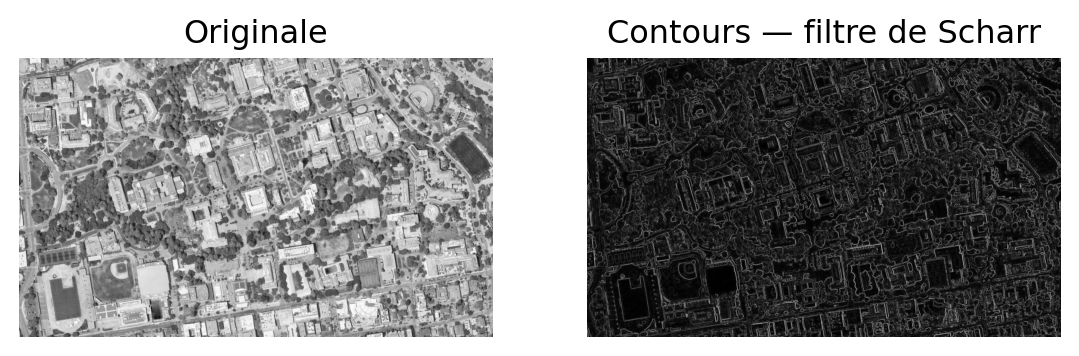
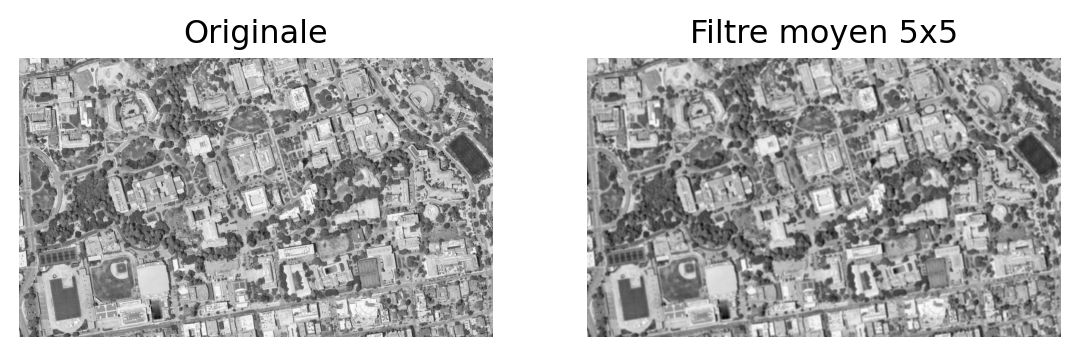
build: regenerate decks 04/05 for slide splits (v1.338)

diff --git a/docs/slides/04-spatiales.html b/docs/slides/04-spatiales.html
@@ -229,7 +229,7 @@ Foucher, Apparicio, Bouroubi, Germain, Clabaut
 </section>
 <section id="transformée-de-fourier-1d" class="slide level2 smaller">
 <h2>Transformée de Fourier — 1D</h2>
-<div id="15ca886a" class="cell" data-execution_count="2">
+<div id="7eff0b74" class="cell" data-execution_count="1">
 <div class="code-copy-outer-scaffold"><div class="sourceCode cell-code" id="cb1"><pre class="sourceCode numberSource python number-lines code-with-copy"><code class="sourceCode python"><span id="cb1-1"><a href=""></a><span class="im">import</span> numpy <span class="im">as</span> np, matplotlib.pyplot <span class="im">as</span> plt</span>
 <span id="cb1-2"><a href=""></a>N, Fs <span class="op">=</span> <span class="dv">16</span>, <span class="fl">2.0</span><span class="op">;</span> Ts <span class="op">=</span> <span class="dv">1</span><span class="op">/</span>Fs</span>
 <span id="cb1-3"><a href=""></a>t <span class="op">=</span> np.arange(<span class="dv">0</span>, N, Ts)</span>
@@ -260,7 +260,7 @@ Foucher, Apparicio, Bouroubi, Germain, Clabaut
 <section id="laliasing" class="slide level2 smaller">
 <h2>L’aliasing</h2>
 <p>Sous-échantillonner sans filtrer → repliement de spectre :</p>
-<div id="fb1bbc5a" class="cell" data-execution_count="3">
+<div id="be30c19b" class="cell" data-execution_count="2">
 <div class="code-copy-outer-scaffold"><div class="sourceCode cell-code" id="cb2"><pre class="sourceCode numberSource python number-lines code-with-copy"><code class="sourceCode python"><span id="cb2-1"><a href=""></a><span class="im">import</span> rioxarray <span class="im">as</span> rxr</span>
 <span id="cb2-2"><a href=""></a><span class="im">from</span> scipy.ndimage <span class="im">import</span> gaussian_filter</span>
 <span id="cb2-3"><a href=""></a>img <span class="op">=</span> rxr.open_rasterio(<span class="st">'../berkeley.jpg'</span>).to_numpy()       <span class="co"># (3, H, W)</span></span>
@@ -288,17 +288,17 @@ Foucher, Apparicio, Bouroubi, Germain, Clabaut
 <li class="fragment"><strong>Stationnaire</strong> vs <strong>adaptatif</strong></li>
 </ul>
 </section>
-<section id="filtre-moyen-contours-scharr" class="slide level2 smaller">
-<h2>Filtre moyen &amp; contours (Scharr)</h2>
-<div id="4148009e" class="cell" data-execution_count="4">
-<div class="code-copy-outer-scaffold"><div class="sourceCode cell-code" id="cb3"><pre class="sourceCode numberSource python number-lines code-with-copy"><code class="sourceCode python"><span id="cb3-1"><a href=""></a><span class="im">from</span> scipy <span class="im">import</span> signal</span>
-<span id="cb3-2"><a href=""></a>scharr <span class="op">=</span> np.array([[<span class="op">-</span><span class="dv">3</span><span class="op">-</span><span class="ot">3j</span>, <span class="dv">0</span><span class="op">-</span><span class="ot">10j</span>, <span class="dv">3</span><span class="op">-</span><span class="ot">3j</span>], [<span class="op">-</span><span class="dv">10</span><span class="op">+</span><span class="ot">0j</span>, <span class="dv">0</span><span class="op">+</span><span class="ot">0j</span>, <span class="dv">10</span><span class="op">+</span><span class="ot">0j</span>], [<span class="op">-</span><span class="dv">3</span><span class="op">+</span><span class="ot">3j</span>, <span class="dv">0</span><span class="op">+</span><span class="ot">10j</span>, <span class="dv">3</span><span class="op">+</span><span class="ot">3j</span>]])</span>
-<span id="cb3-3"><a href=""></a>gris <span class="op">=</span> img[<span class="dv">0</span>]                                    <span class="co"># une bande</span></span>
-<span id="cb3-4"><a href=""></a>grad <span class="op">=</span> np.<span class="bu">abs</span>(signal.convolve2d(gris, scharr, boundary<span class="op">=</span><span class="st">'symm'</span>, mode<span class="op">=</span><span class="st">'same'</span>))</span>
-<span id="cb3-5"><a href=""></a>fig, ax <span class="op">=</span> plt.subplots(<span class="dv">1</span>, <span class="dv">2</span>, figsize<span class="op">=</span>(<span class="dv">7</span>, <span class="dv">3</span>))</span>
-<span id="cb3-6"><a href=""></a>ax[<span class="dv">0</span>].imshow(gris, cmap<span class="op">=</span><span class="st">'gray'</span>)<span class="op">;</span> ax[<span class="dv">0</span>].set_title(<span class="st">"Originale"</span>)<span class="op">;</span> ax[<span class="dv">0</span>].axis(<span class="st">'off'</span>)</span>
-<span id="cb3-7"><a href=""></a>ax[<span class="dv">1</span>].imshow(grad, cmap<span class="op">=</span><span class="st">'gray'</span>)<span class="op">;</span> ax[<span class="dv">1</span>].set_title(<span class="st">"Contours — filtre de Scharr"</span>)<span class="op">;</span> ax[<span class="dv">1</span>].axis(<span class="st">'off'</span>)</span>
-<span id="cb3-8"><a href=""></a>plt.show()</span></code></pre></div><button title="Copy to Clipboard" class="code-copy-button"><i class="bi"></i></button></div>
+<section id="filtre-moyen-lissage" class="slide level2 smaller">
+<h2>Filtre moyen (lissage)</h2>
+<p>Un <strong>filtre moyen</strong> remplace chaque pixel par la moyenne de son voisinage → réduit le bruit, adoucit les détails.</p>
+<div id="caa58448" class="cell" data-execution_count="3">
+<div class="code-copy-outer-scaffold"><div class="sourceCode cell-code" id="cb3"><pre class="sourceCode numberSource python number-lines code-with-copy"><code class="sourceCode python"><span id="cb3-1"><a href=""></a><span class="im">from</span> scipy.ndimage <span class="im">import</span> uniform_filter</span>
+<span id="cb3-2"><a href=""></a>gris <span class="op">=</span> img[<span class="dv">0</span>]                                    <span class="co"># une bande</span></span>
+<span id="cb3-3"><a href=""></a>lisse <span class="op">=</span> uniform_filter(gris, size<span class="op">=</span><span class="dv">5</span>)             <span class="co"># moyenne sur une fenêtre 5x5</span></span>
+<span id="cb3-4"><a href=""></a>fig, ax <span class="op">=</span> plt.subplots(<span class="dv">1</span>, <span class="dv">2</span>, figsize<span class="op">=</span>(<span class="dv">7</span>, <span class="dv">3</span>))</span>
+<span id="cb3-5"><a href=""></a>ax[<span class="dv">0</span>].imshow(gris, cmap<span class="op">=</span><span class="st">'gray'</span>)<span class="op">;</span> ax[<span class="dv">0</span>].set_title(<span class="st">"Originale"</span>)<span class="op">;</span> ax[<span class="dv">0</span>].axis(<span class="st">'off'</span>)</span>
+<span id="cb3-6"><a href=""></a>ax[<span class="dv">1</span>].imshow(lisse, cmap<span class="op">=</span><span class="st">'gray'</span>)<span class="op">;</span> ax[<span class="dv">1</span>].set_title(<span class="st">"Filtre moyen 5x5"</span>)<span class="op">;</span> ax[<span class="dv">1</span>].axis(<span class="st">'off'</span>)</span>
+<span id="cb3-7"><a href=""></a>plt.show()</span></code></pre></div><button title="Copy to Clipboard" class="code-copy-button"><i class="bi"></i></button></div>
 <div class="cell-output cell-output-display">
 <div class="quarto-figure quarto-figure-center">
 <figure>
@@ -308,24 +308,45 @@ Foucher, Apparicio, Bouroubi, Germain, Clabaut
 </div>
 </div>
 </section>
-<section id="du-filtre-à-la-couche-convolutionnelle" class="slide level2 smaller">
-<h2>Du filtre à la couche convolutionnelle</h2>
-<p>Une <strong>couche convolutionnelle</strong> applique des filtres comme celui de Scharr — mais dans un réseau de neurones, ces filtres sont <strong>appris</strong> à partir des données.</p>
-<div id="b94bd0a8" class="cell" data-execution_count="5">
-<div class="code-copy-outer-scaffold"><div class="sourceCode cell-code" id="cb4"><pre class="sourceCode numberSource python number-lines code-with-copy"><code class="sourceCode python"><span id="cb4-1"><a href=""></a><span class="im">import</span> torch, torch.nn <span class="im">as</span> nn</span>
-<span id="cb4-2"><a href=""></a>conv <span class="op">=</span> nn.Conv2d(<span class="dv">1</span>, <span class="dv">1</span>, kernel_size<span class="op">=</span><span class="dv">3</span>, padding<span class="op">=</span><span class="dv">1</span>, bias<span class="op">=</span><span class="va">False</span>)   <span class="co"># une couche conv 3x3</span></span>
-<span id="cb4-3"><a href=""></a>scharr_gx <span class="op">=</span> torch.tensor([[<span class="op">-</span><span class="fl">3.</span>, <span class="dv">0</span>, <span class="dv">3</span>], [<span class="op">-</span><span class="dv">10</span>, <span class="dv">0</span>, <span class="dv">10</span>], [<span class="op">-</span><span class="dv">3</span>, <span class="dv">0</span>, <span class="dv">3</span>]]).reshape(<span class="dv">1</span>, <span class="dv">1</span>, <span class="dv">3</span>, <span class="dv">3</span>)</span>
-<span id="cb4-4"><a href=""></a>conv.weight <span class="op">=</span> nn.Parameter(scharr_gx)                          <span class="co"># noyau imposé (Scharr Gx)</span></span>
-<span id="cb4-5"><a href=""></a>x <span class="op">=</span> torch.tensor(gris, dtype<span class="op">=</span>torch.float32)[<span class="va">None</span>, <span class="va">None</span>]        <span class="co"># (1, 1, H, W)</span></span>
-<span id="cb4-6"><a href=""></a>sortie <span class="op">=</span> conv(x)[<span class="dv">0</span>, <span class="dv">0</span>].detach().numpy()</span>
-<span id="cb4-7"><a href=""></a>fig, ax <span class="op">=</span> plt.subplots(<span class="dv">1</span>, <span class="dv">2</span>, figsize<span class="op">=</span>(<span class="dv">7</span>, <span class="dv">3</span>))</span>
-<span id="cb4-8"><a href=""></a>ax[<span class="dv">0</span>].imshow(gris, cmap<span class="op">=</span><span class="st">'gray'</span>)<span class="op">;</span> ax[<span class="dv">0</span>].set_title(<span class="st">"Entrée"</span>)<span class="op">;</span> ax[<span class="dv">0</span>].axis(<span class="st">'off'</span>)</span>
-<span id="cb4-9"><a href=""></a>ax[<span class="dv">1</span>].imshow(np.<span class="bu">abs</span>(sortie), cmap<span class="op">=</span><span class="st">'gray'</span>)<span class="op">;</span> ax[<span class="dv">1</span>].set_title(<span class="st">"Sortie — couche conv (Scharr)"</span>)<span class="op">;</span> ax[<span class="dv">1</span>].axis(<span class="st">'off'</span>)</span>
-<span id="cb4-10"><a href=""></a>plt.show()</span></code></pre></div><button title="Copy to Clipboard" class="code-copy-button"><i class="bi"></i></button></div>
+<section id="contours-filtre-de-scharr" class="slide level2 smaller">
+<h2>Contours — filtre de Scharr</h2>
+<p>Un <strong>filtre de gradient</strong> (Scharr) met en valeur les <strong>contours</strong> — les fortes variations locales :</p>
+<div id="c0444c92" class="cell" data-execution_count="4">
+<div class="code-copy-outer-scaffold"><div class="sourceCode cell-code" id="cb4"><pre class="sourceCode numberSource python number-lines code-with-copy"><code class="sourceCode python"><span id="cb4-1"><a href=""></a><span class="im">from</span> scipy <span class="im">import</span> signal</span>
+<span id="cb4-2"><a href=""></a>scharr <span class="op">=</span> np.array([[<span class="op">-</span><span class="dv">3</span><span class="op">-</span><span class="ot">3j</span>, <span class="dv">0</span><span class="op">-</span><span class="ot">10j</span>, <span class="dv">3</span><span class="op">-</span><span class="ot">3j</span>], [<span class="op">-</span><span class="dv">10</span><span class="op">+</span><span class="ot">0j</span>, <span class="dv">0</span><span class="op">+</span><span class="ot">0j</span>, <span class="dv">10</span><span class="op">+</span><span class="ot">0j</span>], [<span class="op">-</span><span class="dv">3</span><span class="op">+</span><span class="ot">3j</span>, <span class="dv">0</span><span class="op">+</span><span class="ot">10j</span>, <span class="dv">3</span><span class="op">+</span><span class="ot">3j</span>]])</span>
+<span id="cb4-3"><a href=""></a>gris <span class="op">=</span> img[<span class="dv">0</span>]                                    <span class="co"># une bande</span></span>
+<span id="cb4-4"><a href=""></a>grad <span class="op">=</span> np.<span class="bu">abs</span>(signal.convolve2d(gris, scharr, boundary<span class="op">=</span><span class="st">'symm'</span>, mode<span class="op">=</span><span class="st">'same'</span>))</span>
+<span id="cb4-5"><a href=""></a>fig, ax <span class="op">=</span> plt.subplots(<span class="dv">1</span>, <span class="dv">2</span>, figsize<span class="op">=</span>(<span class="dv">7</span>, <span class="dv">3</span>))</span>
+<span id="cb4-6"><a href=""></a>ax[<span class="dv">0</span>].imshow(gris, cmap<span class="op">=</span><span class="st">'gray'</span>)<span class="op">;</span> ax[<span class="dv">0</span>].set_title(<span class="st">"Originale"</span>)<span class="op">;</span> ax[<span class="dv">0</span>].axis(<span class="st">'off'</span>)</span>
+<span id="cb4-7"><a href=""></a>ax[<span class="dv">1</span>].imshow(grad, cmap<span class="op">=</span><span class="st">'gray'</span>)<span class="op">;</span> ax[<span class="dv">1</span>].set_title(<span class="st">"Contours (Scharr)"</span>)<span class="op">;</span> ax[<span class="dv">1</span>].axis(<span class="st">'off'</span>)</span>
+<span id="cb4-8"><a href=""></a>plt.show()</span></code></pre></div><button title="Copy to Clipboard" class="code-copy-button"><i class="bi"></i></button></div>
 <div class="cell-output cell-output-display">
 <div class="quarto-figure quarto-figure-center">
 <figure>
-<p><img data-src="04-spatiales_files/figure-revealjs/cell-5-output-1.png" class="quarto-figure quarto-figure-center" width="543" height="178"></p>
+<p><img data-src="04-spatiales_files/figure-revealjs/cell-5-output-1.png" class="quarto-figure quarto-figure-center" width="540" height="178"></p>
+</figure>
+</div>
+</div>
+</div>
+</section>
+<section id="du-filtre-à-la-couche-convolutionnelle" class="slide level2 smaller">
+<h2>Du filtre à la couche convolutionnelle</h2>
+<p>Une <strong>couche convolutionnelle</strong> applique des filtres comme celui de Scharr — mais dans un réseau de neurones, ces filtres sont <strong>appris</strong> à partir des données.</p>
+<div id="396b5b8b" class="cell" data-execution_count="5">
+<div class="code-copy-outer-scaffold"><div class="sourceCode cell-code" id="cb5"><pre class="sourceCode numberSource python number-lines code-with-copy"><code class="sourceCode python"><span id="cb5-1"><a href=""></a><span class="im">import</span> torch, torch.nn <span class="im">as</span> nn</span>
+<span id="cb5-2"><a href=""></a>conv <span class="op">=</span> nn.Conv2d(<span class="dv">1</span>, <span class="dv">1</span>, kernel_size<span class="op">=</span><span class="dv">3</span>, padding<span class="op">=</span><span class="dv">1</span>, bias<span class="op">=</span><span class="va">False</span>)   <span class="co"># une couche conv 3x3</span></span>
+<span id="cb5-3"><a href=""></a>scharr_gx <span class="op">=</span> torch.tensor([[<span class="op">-</span><span class="fl">3.</span>, <span class="dv">0</span>, <span class="dv">3</span>], [<span class="op">-</span><span class="dv">10</span>, <span class="dv">0</span>, <span class="dv">10</span>], [<span class="op">-</span><span class="dv">3</span>, <span class="dv">0</span>, <span class="dv">3</span>]]).reshape(<span class="dv">1</span>, <span class="dv">1</span>, <span class="dv">3</span>, <span class="dv">3</span>)</span>
+<span id="cb5-4"><a href=""></a>conv.weight <span class="op">=</span> nn.Parameter(scharr_gx)                          <span class="co"># noyau imposé (Scharr Gx)</span></span>
+<span id="cb5-5"><a href=""></a>x <span class="op">=</span> torch.tensor(gris, dtype<span class="op">=</span>torch.float32)[<span class="va">None</span>, <span class="va">None</span>]        <span class="co"># (1, 1, H, W)</span></span>
+<span id="cb5-6"><a href=""></a>sortie <span class="op">=</span> conv(x)[<span class="dv">0</span>, <span class="dv">0</span>].detach().numpy()</span>
+<span id="cb5-7"><a href=""></a>fig, ax <span class="op">=</span> plt.subplots(<span class="dv">1</span>, <span class="dv">2</span>, figsize<span class="op">=</span>(<span class="dv">7</span>, <span class="dv">3</span>))</span>
+<span id="cb5-8"><a href=""></a>ax[<span class="dv">0</span>].imshow(gris, cmap<span class="op">=</span><span class="st">'gray'</span>)<span class="op">;</span> ax[<span class="dv">0</span>].set_title(<span class="st">"Entrée"</span>)<span class="op">;</span> ax[<span class="dv">0</span>].axis(<span class="st">'off'</span>)</span>
+<span id="cb5-9"><a href=""></a>ax[<span class="dv">1</span>].imshow(np.<span class="bu">abs</span>(sortie), cmap<span class="op">=</span><span class="st">'gray'</span>)<span class="op">;</span> ax[<span class="dv">1</span>].set_title(<span class="st">"Sortie — couche conv (Scharr)"</span>)<span class="op">;</span> ax[<span class="dv">1</span>].axis(<span class="st">'off'</span>)</span>
+<span id="cb5-10"><a href=""></a>plt.show()</span></code></pre></div><button title="Copy to Clipboard" class="code-copy-button"><i class="bi"></i></button></div>
+<div class="cell-output cell-output-display">
+<div class="quarto-figure quarto-figure-center">
+<figure>
+<p><img data-src="04-spatiales_files/figure-revealjs/cell-6-output-1.png" class="quarto-figure quarto-figure-center" width="543" height="178"></p>
 </figure>
 </div>
 </div>
@@ -335,18 +356,18 @@ Foucher, Apparicio, Bouroubi, Germain, Clabaut
 <section id="filtrage-adaptatif-le-speckle-sar" class="slide level2 smaller">
 <h2>Filtrage adaptatif — le <em>speckle</em> SAR</h2>
 <p>Les images radar sont dégradées par un bruit multiplicatif (<em>speckle</em>). Le <strong>filtre de Lee</strong> lisse en <strong>préservant les détails</strong> (pondération selon la variance locale).</p>
-<div id="9ace5d48" class="cell" data-execution_count="6">
-<div class="code-copy-outer-scaffold"><div class="sourceCode cell-code" id="cb5"><pre class="sourceCode numberSource python number-lines code-with-copy"><code class="sourceCode python"><span id="cb5-1"><a href=""></a>sar <span class="op">=</span> rxr.open_rasterio(<span class="st">'../SAR.tif'</span>).sel(band<span class="op">=</span><span class="dv">1</span>)</span>
-<span id="cb5-2"><a href=""></a>sar <span class="op">=</span> sar.where(sar <span class="op">&gt;</span> <span class="dv">0</span>)                          <span class="co"># masque no_data</span></span>
-<span id="cb5-3"><a href=""></a>moy <span class="op">=</span> sar.rolling(x<span class="op">=</span><span class="dv">5</span>, y<span class="op">=</span><span class="dv">5</span>, min_periods<span class="op">=</span><span class="dv">3</span>, center<span class="op">=</span><span class="va">True</span>).mean()</span>
-<span id="cb5-4"><a href=""></a>fig, ax <span class="op">=</span> plt.subplots(<span class="dv">1</span>, <span class="dv">2</span>, figsize<span class="op">=</span>(<span class="dv">7</span>, <span class="dv">3</span>))</span>
-<span id="cb5-5"><a href=""></a>np.log10(sar).plot.imshow(ax<span class="op">=</span>ax[<span class="dv">0</span>], add_colorbar<span class="op">=</span><span class="va">False</span>)<span class="op">;</span> ax[<span class="dv">0</span>].set_title(<span class="st">"SAR brut (speckle)"</span>)<span class="op">;</span> ax[<span class="dv">0</span>].axis(<span class="st">'off'</span>)</span>
-<span id="cb5-6"><a href=""></a>np.log10(moy).plot.imshow(ax<span class="op">=</span>ax[<span class="dv">1</span>], add_colorbar<span class="op">=</span><span class="va">False</span>)<span class="op">;</span> ax[<span class="dv">1</span>].set_title(<span class="st">"Filtre moyen 5x5"</span>)<span class="op">;</span> ax[<span class="dv">1</span>].axis(<span class="st">'off'</span>)</span>
-<span id="cb5-7"><a href=""></a>plt.show()</span></code></pre></div><button title="Copy to Clipboard" class="code-copy-button"><i class="bi"></i></button></div>
+<div id="0eb786a8" class="cell" data-execution_count="6">
+<div class="code-copy-outer-scaffold"><div class="sourceCode cell-code" id="cb6"><pre class="sourceCode numberSource python number-lines code-with-copy"><code class="sourceCode python"><span id="cb6-1"><a href=""></a>sar <span class="op">=</span> rxr.open_rasterio(<span class="st">'../SAR.tif'</span>).sel(band<span class="op">=</span><span class="dv">1</span>)</span>
+<span id="cb6-2"><a href=""></a>sar <span class="op">=</span> sar.where(sar <span class="op">&gt;</span> <span class="dv">0</span>)                          <span class="co"># masque no_data</span></span>
+<span id="cb6-3"><a href=""></a>moy <span class="op">=</span> sar.rolling(x<span class="op">=</span><span class="dv">5</span>, y<span class="op">=</span><span class="dv">5</span>, min_periods<span class="op">=</span><span class="dv">3</span>, center<span class="op">=</span><span class="va">True</span>).mean()</span>
+<span id="cb6-4"><a href=""></a>fig, ax <span class="op">=</span> plt.subplots(<span class="dv">1</span>, <span class="dv">2</span>, figsize<span class="op">=</span>(<span class="dv">7</span>, <span class="dv">3</span>))</span>
+<span id="cb6-5"><a href=""></a>np.log10(sar).plot.imshow(ax<span class="op">=</span>ax[<span class="dv">0</span>], add_colorbar<span class="op">=</span><span class="va">False</span>)<span class="op">;</span> ax[<span class="dv">0</span>].set_title(<span class="st">"SAR brut (speckle)"</span>)<span class="op">;</span> ax[<span class="dv">0</span>].axis(<span class="st">'off'</span>)</span>
+<span id="cb6-6"><a href=""></a>np.log10(moy).plot.imshow(ax<span class="op">=</span>ax[<span class="dv">1</span>], add_colorbar<span class="op">=</span><span class="va">False</span>)<span class="op">;</span> ax[<span class="dv">1</span>].set_title(<span class="st">"Filtre moyen 5x5"</span>)<span class="op">;</span> ax[<span class="dv">1</span>].axis(<span class="st">'off'</span>)</span>
+<span id="cb6-7"><a href=""></a>plt.show()</span></code></pre></div><button title="Copy to Clipboard" class="code-copy-button"><i class="bi"></i></button></div>
 <div class="cell-output cell-output-display">
 <div class="quarto-figure quarto-figure-center">
 <figure>
-<p><img data-src="04-spatiales_files/figure-revealjs/cell-6-output-1.png" class="quarto-figure quarto-figure-center" width="540" height="261"></p>
+<p><img data-src="04-spatiales_files/figure-revealjs/cell-7-output-1.png" class="quarto-figure quarto-figure-center" width="540" height="261"></p>
 </figure>
 </div>
 </div>
@@ -355,18 +376,18 @@ Foucher, Apparicio, Bouroubi, Germain, Clabaut
 <section id="segmentation-en-super-pixels" class="slide level2 smaller">
 <h2>Segmentation en super-pixels</h2>
 <p><strong>SLIC</strong> regroupe les pixels en régions homogènes et compactes (couleur + distance) :</p>
-<div id="edb7083c" class="cell" data-execution_count="7">
-<div class="code-copy-outer-scaffold"><div class="sourceCode cell-code" id="cb6"><pre class="sourceCode numberSource python number-lines code-with-copy"><code class="sourceCode python"><span id="cb6-1"><a href=""></a><span class="im">from</span> skimage.segmentation <span class="im">import</span> slic, mark_boundaries</span>
-<span id="cb6-2"><a href=""></a>rgb <span class="op">=</span> img.transpose(<span class="dv">1</span>, <span class="dv">2</span>, <span class="dv">0</span>).astype(<span class="st">'uint8'</span>)      <span class="co"># berkeley (réutilisée)</span></span>
-<span id="cb6-3"><a href=""></a>seg <span class="op">=</span> slic(rgb, n_segments<span class="op">=</span><span class="dv">250</span>, compactness<span class="op">=</span><span class="dv">10</span>, sigma<span class="op">=</span><span class="dv">1</span>, start_label<span class="op">=</span><span class="dv">1</span>)</span>
-<span id="cb6-4"><a href=""></a>fig, ax <span class="op">=</span> plt.subplots(figsize<span class="op">=</span>(<span class="dv">5</span>, <span class="fl">3.6</span>))</span>
-<span id="cb6-5"><a href=""></a>ax.imshow(mark_boundaries(rgb, seg))</span>
-<span id="cb6-6"><a href=""></a>ax.set_title(<span class="ss">f"SLIC — </span><span class="sc">{</span><span class="bu">len</span>(np.unique(seg))<span class="sc">}</span><span class="ss"> super-pixels"</span>)<span class="op">;</span> ax.axis(<span class="st">'off'</span>)</span>
-<span id="cb6-7"><a href=""></a>plt.show()</span></code></pre></div><button title="Copy to Clipboard" class="code-copy-button"><i class="bi"></i></button></div>
+<div id="c879d117" class="cell" data-execution_count="7">
+<div class="code-copy-outer-scaffold"><div class="sourceCode cell-code" id="cb7"><pre class="sourceCode numberSource python number-lines code-with-copy"><code class="sourceCode python"><span id="cb7-1"><a href=""></a><span class="im">from</span> skimage.segmentation <span class="im">import</span> slic, mark_boundaries</span>
+<span id="cb7-2"><a href=""></a>rgb <span class="op">=</span> img.transpose(<span class="dv">1</span>, <span class="dv">2</span>, <span class="dv">0</span>).astype(<span class="st">'uint8'</span>)      <span class="co"># berkeley (réutilisée)</span></span>
+<span id="cb7-3"><a href=""></a>seg <span class="op">=</span> slic(rgb, n_segments<span class="op">=</span><span class="dv">250</span>, compactness<span class="op">=</span><span class="dv">10</span>, sigma<span class="op">=</span><span class="dv">1</span>, start_label<span class="op">=</span><span class="dv">1</span>)</span>
+<span id="cb7-4"><a href=""></a>fig, ax <span class="op">=</span> plt.subplots(figsize<span class="op">=</span>(<span class="dv">5</span>, <span class="fl">3.6</span>))</span>
+<span id="cb7-5"><a href=""></a>ax.imshow(mark_boundaries(rgb, seg))</span>
+<span id="cb7-6"><a href=""></a>ax.set_title(<span class="ss">f"SLIC — </span><span class="sc">{</span><span class="bu">len</span>(np.unique(seg))<span class="sc">}</span><span class="ss"> super-pixels"</span>)<span class="op">;</span> ax.axis(<span class="st">'off'</span>)</span>
+<span id="cb7-7"><a href=""></a>plt.show()</span></code></pre></div><button title="Copy to Clipboard" class="code-copy-button"><i class="bi"></i></button></div>
 <div class="cell-output cell-output-display">
 <div class="quarto-figure quarto-figure-center">
 <figure>
-<p><img data-src="04-spatiales_files/figure-revealjs/cell-7-output-1.png" class="quarto-figure quarto-figure-center" width="391" height="258"></p>
+<p><img data-src="04-spatiales_files/figure-revealjs/cell-8-output-1.png" class="quarto-figure quarto-figure-center" width="391" height="258"></p>
 </figure>
 </div>
 </div>

diff --git a/docs/slides/05-classifications.html b/docs/slides/05-classifications.html
@@ -266,13 +266,21 @@ Foucher, Apparicio, Bouroubi, Germain, Clabaut
 <li class="fragment"><strong>Tester</strong> sur des données indépendantes</li>
 </ol>
 </section>
-<section id="séparabilité-performance" class="slide level2 smaller">
-<h2>Séparabilité &amp; performance</h2>
+<section id="séparabilité-des-classes" class="slide level2 smaller">
+<h2>Séparabilité des classes</h2>
 <ul>
-<li class="fragment">Ensembles réels souvent <strong>déséquilibrés</strong></li>
-<li class="fragment"><strong>Séparabilité</strong> (distance JM) sous hypothèse gaussienne</li>
-<li class="fragment"><strong>Matrice de confusion</strong> → <strong>rappel</strong> (omission, lignes), <strong>précision</strong> (fausses alarmes, colonnes)</li>
-<li class="fragment"><strong>f1-score</strong> = moyenne harmonique rappel/précision</li>
+<li class="fragment">Ensembles réels souvent <strong>déséquilibrés</strong> (fréquences de classes très inégales)</li>
+<li class="fragment"><strong>Séparabilité</strong> mesurée par la distance <strong>JM</strong> sous hypothèse gaussienne</li>
+<li class="fragment">Guide le choix des bandes et indices les plus <strong>discriminants</strong></li>
+</ul>
+</section>
+<section id="mesures-de-performance" class="slide level2 smaller">
+<h2>Mesures de performance</h2>
+<ul>
+<li class="fragment"><strong>Matrice de confusion</strong> : vérité terrain vs prédiction</li>
+<li class="fragment"><strong>Rappel</strong> — erreurs d’omission (normalisation par lignes)</li>
+<li class="fragment"><strong>Précision</strong> — fausses alarmes (normalisation par colonnes)</li>
+<li class="fragment"><strong>f1-score</strong> = moyenne harmonique du rappel et de la précision</li>
 </ul>
 </section>
 <section id="k-nn-frontières-de-décision" class="slide level2 smaller">
